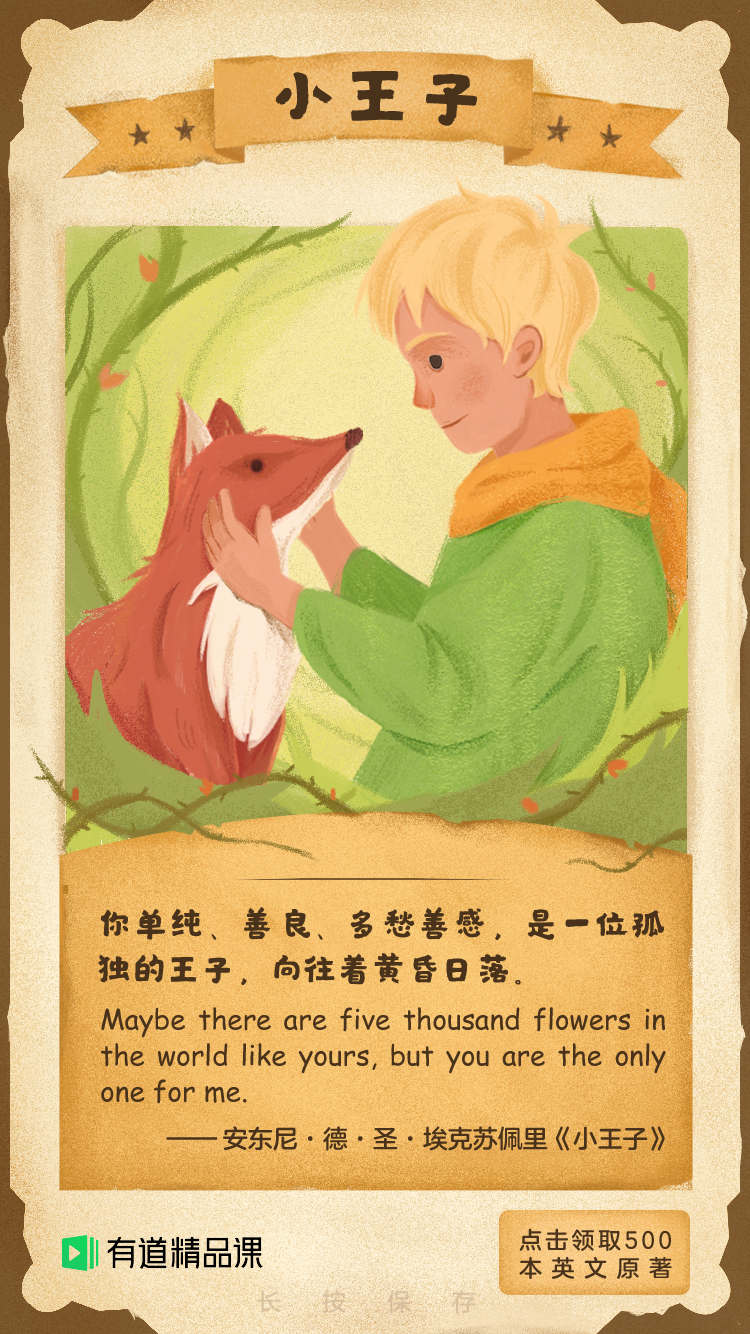
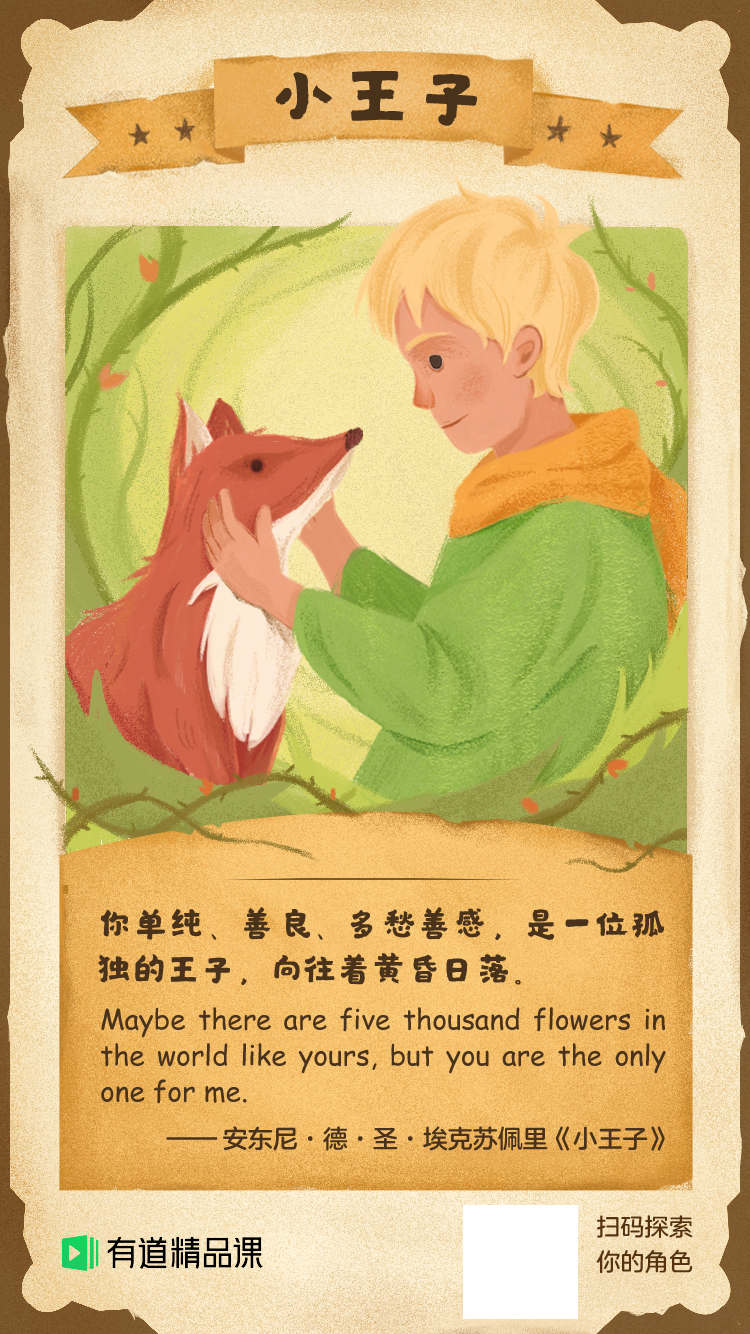
feat: 修改分享页逻辑

Changed region(s): [[0.6133, 0.8913, 0.92, 1.0], [0.4293, 0.9528, 0.46, 0.9835]]

diff --git a/src/components/Loading/config.js b/src/components/Loading/config.js
@@ -3,4 +3,4 @@
  * @author shuai.li
  */
 
-export const imgList = ["book-back-new.jpg", "book-base.png", "book-page.jpg", "eli.jpg", "eli_share.jpg", "firse-normal.png", "first-converse.png", "fuer.jpg", "fuer_share.jpg", "gou.png", "hali.jpg", "hali_share.jpg", "home-bg-new.jpg", "home-text.png", "lubin.jpg", "lubin_share.jpg", "mu-close.png", "mu-open.png", "outer-star.png", "page-back.png", "page1-front.png", "q1.png", "q10.png", "q11.png", "q12.png", "q13.png", "q14.png", "q15.png", "q16.png", "q2.png", "q3.png", "q4.png", "q5.png", "q6.png", "q7.png", "q8.png", "q9.png", "qrcode.png", "question-back.png", "shita.jpg", "star.png", "tangji.jpg", "shita_share.jpg", "tangji_share.jpg", "text-1.png", "text-2.png", "text-3.png", "text-4.png", "xiaowang.jpg", "xiaowang_share.jpg"]
+export const imgList = ["book-back-new.jpg","book-base.png","eli.jpg","book-page.jpg","eli_share.jpg","firse-normal.png","fuer.jpg","first-converse.png","fuer_share.jpg","gou.png","hali.jpg","hali_share.jpg","home-bg-new.jpg","home-text.png","lubin.jpg","lubin_share.jpg","mu-close.png","mu-open.png","outer-star.png","page-back.png","page1-front.png","q1.png","q10.png","q11.png","q12.png","q13.png","q14.png","q15.png","q16.png","q2.png","q3.png","q4.png","q5.png","q6.png","q7.png","q8.png","q9.png","qrcode.png","question-back.png","shita.jpg","shita_share.jpg","star.png","tangji.jpg","tangji_share.jpg","text-1.png","text-2.png","text-3.png","xiaowang.jpg","text-4.png","xiaowang_share.jpg"]

diff --git a/src/components/Result/index.js b/src/components/Result/index.js
@@ -3,13 +3,19 @@ export default {
     return {
       showImgUrl: '',
       imgUrl: '',
+      lookupUrl: '',
       username: '',
+
+      showShare: false,
     };
   },
   methods: {
     onGoto() {
-      // location.href = 'https://mp.weixin.qq.com/mp/profile_ext?action=home&__biz=MzA4NzM2MjIxMA%3D%3D&scene=110#wechat_redirect' + new Date().getTime();
-      location.href = 'https://mp.weixin.qq.com/mp/profile_ext?action=home&__biz=MzU1MzM5MDYwMQ%3D%3D&scene=110#wechat_redirect'
+      this.showShare = true;
+      // location.href = 'https://mp.weixin.qq.com/mp/profile_ext?action=home&__biz=MzU1MzM5MDYwMQ==&scene=110&from=singlemessage&isappinstalled=0#wechat_redirect'
+    },
+    onShare() {
+      this.showShare = !this.showShare;
     }
   },
   mounted: async function () {
@@ -30,6 +36,7 @@ export default {
     }
     const host = `${location.origin}${location.pathname}`.split('#')[0].replace(/index(\d)?\.html/, '');
     this.showImgUrl = `${host}/static/img/${max}.jpg`;
+    this.lookupUrl = `${host}/static/img/lookup-qrcode.jpg`;
     const shareImgUrl = `${host}/static/img/${max}_share.jpg`;
     const qrcodeImgUrl = `${host}/static/img/qrcode.png`;
     const img = new Image;

diff --git a/index.html b/index.html
@@ -4,7 +4,7 @@
   <meta charset="UTF-8">
   <meta name="viewport" content="initial-scale=1, minimum-scale=1, maximum-scale=1, user-scalable=no" />
   <meta http-equiv="X-UA-Compatible" content="ie=edge">
-  <title>写给100天后的你</title>
+  <title>测试你是书中的哪位主角</title>
   <!--lib-->
 
   <!--<script src="//shared.ydstatic.com/js/zepto/1.1.6.js"></script>-->
@@ -22,7 +22,7 @@
         return {							//移动终端浏览器版本信息
           webKit: u.indexOf('AppleWebKit') > -1, //苹果、谷歌内核
           mobile: !!u.match(/AppleWebKit.*Mobile.*/) || !!u.match(/AppleWebKit/), //是否为移动终端
-          weixin: !!u.match(/micromessenger/i),
+          weixin: !!u.match(/micromessenger/i) && false,
         };
       }(),
       language: (navigator.browserLanguage || navigator.language).toLowerCase()

diff --git a/src/components/Result/index.less b/src/components/Result/index.less
@@ -45,4 +45,31 @@
   .goto-button {
     right: 0.20rem;
   }
+  .mask {
+    position: absolute;
+    bottom: 0;
+    top: 0;
+    left: 0;
+    right: 0;
+    background: rgba(0, 0, 0, 0.5);
+  }
+  .share {
+    position: absolute;
+    bottom: 1.5rem;
+    top: 1.2rem;
+    left: 0.3rem;
+    right: 0.3rem;
+    background: #fff;
+  }
+  .lookup-qrcode {
+    background: url("../../../static/img/lookup-qrcode.jpg") no-repeat;
+    background-size: cover;
+    height: 3rem;
+  }
+  .lookup-qrcode-img {
+    width: 100%;
+  }
+  .lookup-text {
+    text-align: center;
+  }
 }

diff --git a/src/components/Home/index.less b/src/components/Home/index.less
@@ -82,12 +82,12 @@
     background: url("../../../static/img/page1-front.png") no-repeat;
     background-size: cover;
   }
-  .page1-back {
-    background: url("../../../static/img/page-back.png") no-repeat;
-    background-size: cover;
-    transform-origin: 100% 0;
-    transform: rotateY(0.1deg);
-  }
+  //.page1-back {
+  //  background: url("../../../static/img/page-back.png") no-repeat;
+  //  background-size: cover;
+  //  transform-origin: 100% 0;
+  //  transform: rotateY(0.1deg);
+  //}
   .text {
     height: 0.25rem;
     margin-top: 0.15rem;

diff --git a/src/components/Result/index.html b/src/components/Result/index.html
@@ -7,5 +7,11 @@
   <canvas id="canvas" class="preview-img-canvas" ></canvas>
   <img :src="imgUrl" class="preview-img" />
   <div class="button goto-button" @click.prevent.stop="onGoto"></div>
+  <div class="mask" v-if="showShare" @click="onShare"></div>
+  <div class="share" v-if="showShare">
+    <!--<div class="lookup-qrcode"></div>-->
+    <img :src="lookupUrl" class="lookup-qrcode-img">
+    <div class="lookup-text">长按识别二维码,关注此微信公众号</div>
+  </div>
 
 </div>

diff --git a/src/components/Home/index.js b/src/components/Home/index.js
@@ -74,7 +74,7 @@ export default {
 
           // 最后一页 计算可能角色
           const max = this.getMax();
-          window.share(max + '.jpg', namex[max]);
+          window.share('little-share-'+max + '.jpg', namex[max]);
           // console.log('max', max);
           // this.$router.push('result');
           this.$router.push({
